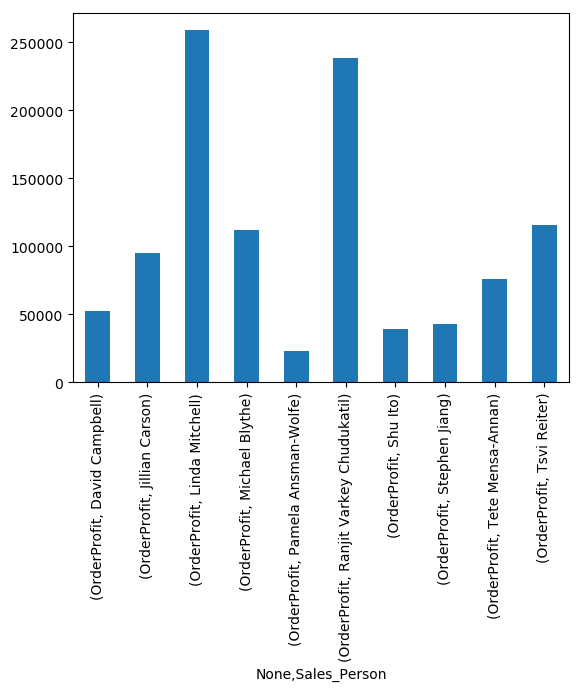
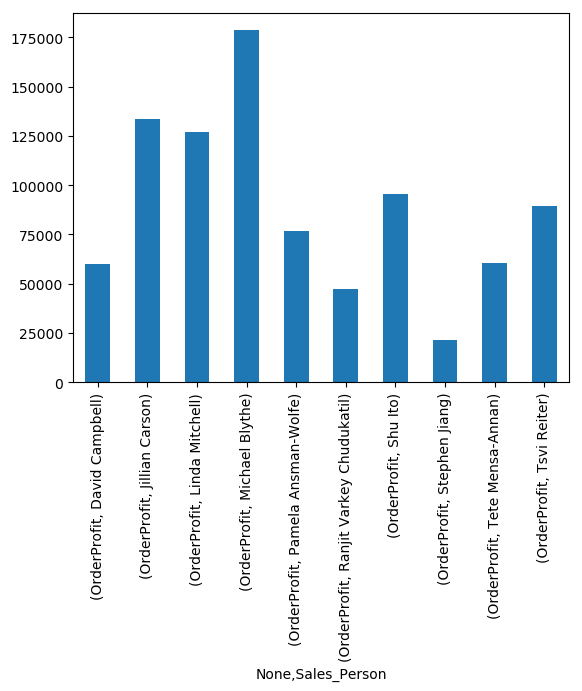
add function for forecasting

diff --git a/sales_report/view/output/output.html b/sales_report/view/output/output.html
@@ -22,7 +22,7 @@
 
             <table id="phy_table">
                 <tr>
-                    <th colspan='10'><h2>Figures 2008-05</h2></th>
+                    <th colspan='10'><h2>Figures 2008-06</h2></th>
                 </tr>
                 <tr>
                 
@@ -47,59 +47,59 @@
 
             <table id="phy_table">
                 <tr>
-                    <th colspan='10'><h2>Tables 2008-05</h2></th>
+                    <th colspan='10'><h2>Tables 2008-06</h2></th>
                 </tr>
                 
                     <th colspan="2" >OrderTurnOver</th>
                     
                         <tr>
                             <td>David Campbell</td>
-                            <td>188786.54</td>
+                            <td>237942.59</td>
                         </tr>
                     
                         <tr>
                             <td>Jillian Carson</td>
-                            <td>357804.41</td>
+                            <td>569961.16</td>
                         </tr>
                     
                         <tr>
                             <td>Linda Mitchell</td>
-                            <td>907212.61</td>
+                            <td>491040.08</td>
                         </tr>
                     
                         <tr>
                             <td>Michael Blythe</td>
-                            <td>420074.35</td>
+                            <td>629445.93</td>
                         </tr>
                     
                         <tr>
                             <td>Pamela Ansman-Wolfe</td>
-                            <td>95230.32</td>
+                            <td>260492.23</td>
                         </tr>
                     
                         <tr>
                             <td>Ranjit Varkey Chudukatil</td>
-                            <td>918902.73</td>
+                            <td>200325.29</td>
                         </tr>
                     
                         <tr>
                             <td>Shu Ito</td>
-                            <td>169381.5</td>
+                            <td>368683.26</td>
                         </tr>
                     
                         <tr>
                             <td>Stephen Jiang</td>
-                            <td>166443.18</td>
+                            <td>67274.79</td>
                         </tr>
                     
                         <tr>
                             <td>Tete Mensa-Annan</td>
-                            <td>341966.01</td>
+                            <td>242220.31</td>
                         </tr>
                     
                         <tr>
                             <td>Tsvi Reiter</td>
-                            <td>441756.8</td>
+                            <td>388336.06</td>
                         </tr>
                     
                 
@@ -107,52 +107,52 @@
                     
                         <tr>
                             <td>David Campbell</td>
-                            <td>52496.173</td>
+                            <td>60197.954</td>
                         </tr>
                     
                         <tr>
                             <td>Jillian Carson</td>
-                            <td>94691.65875</td>
+                            <td>133543.199875</td>
                         </tr>
                     
                         <tr>
                             <td>Linda Mitchell</td>
-                            <td>258791.9965</td>
+                            <td>127125.576875</td>
                         </tr>
                     
                         <tr>
                             <td>Michael Blythe</td>
-                            <td>111663.389875</td>
+                            <td>178664.528375</td>
                         </tr>
                     
                         <tr>
                             <td>Pamela Ansman-Wolfe</td>
-                            <td>22709.0295</td>
+                            <td>76681.357875</td>
                         </tr>
                     
                         <tr>
                             <td>Ranjit Varkey Chudukatil</td>
-                            <td>238681.457</td>
+                            <td>47399.61775</td>
                         </tr>
                     
                         <tr>
                             <td>Shu Ito</td>
-                            <td>39156.6145</td>
+                            <td>95577.159875</td>
                         </tr>
                     
                         <tr>
                             <td>Stephen Jiang</td>
-                            <td>42631.48175</td>
+                            <td>21492.683125</td>
                         </tr>
                     
                         <tr>
                             <td>Tete Mensa-Annan</td>
-                            <td>75886.145</td>
+                            <td>60417.137625</td>
                         </tr>
                     
                         <tr>
                             <td>Tsvi Reiter</td>
-                            <td>115479.77475</td>
+                            <td>89448.91775</td>
                         </tr>
                     
                 

diff --git a/sales_report/cli.py b/sales_report/cli.py
@@ -1,5 +1,6 @@
 import argparse
 import os
+import logging
 
 from sales_report import ROOT
 from sales_report.monthly import MonthlyReport
@@ -21,19 +22,29 @@ def monthly(args):
     generator.create_html_report(template_vars, args.template, args.path)
 
 
+def forecast(args):
+    # todo - use a non linear model to forecast sales.
+    logging.info('forecast needs to be implemented')
+
+
 def get_parser():
     parser = argparse.ArgumentParser()
     subparsers = parser.add_subparsers(help='sub-command help')
+
     ht = "create a report"
-    parser_description = subparsers.add_parser('monthly', help=ht)
-    parser_description.add_argument('--month', type=int, default=-1,
-                                    help="define how many months ago you want to check")
-    parser_description.add_argument('--dataset', type=str, default=default_dataset,
-                                    help="the path to the dataset")
-    parser_description.add_argument('--path', type=str, default=default_output,
-                                    help="the output path of the report.")
-    parser_description.add_argument('--template', type=str, default=default_template,
-                                    help="the path of the template")
-    parser_description.set_defaults(func=monthly)
+    parser_monthly = subparsers.add_parser('monthly', help=ht)
+    parser_monthly.add_argument('--month', type=int, default=-1,
+                                help="define how many months ago you want to check")
+    parser_monthly.add_argument('--dataset', type=str, default=default_dataset,
+                                help="the path to the dataset")
+    parser_monthly.add_argument('--path', type=str, default=default_output,
+                                help="the output path of the report.")
+    parser_monthly.add_argument('--template', type=str, default=default_template,
+                                help="the path of the template")
+    parser_monthly.set_defaults(func=monthly)
+
+    ht = "forecast sales"
+    parser_monthly = subparsers.add_parser('forecast', help=ht)
+    parser_monthly.set_defaults(func=forecast)
 
     return parser
